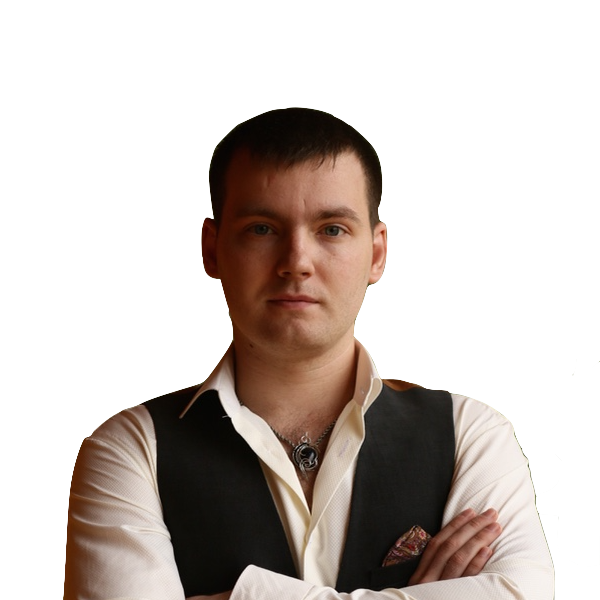
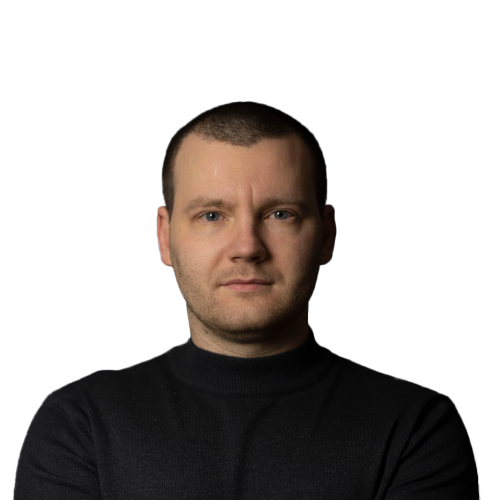
- Edited intro, skills. - Added and edited photo. - Added company links. - Fixed experience expanding button. - Added first portfolio item

diff --git a/index.html b/index.html
@@ -33,8 +33,8 @@
                         <li class="nav__item"><a href="#home" class="nav__link active">Home</a></li>
                         <li class="nav__item"><a href="#about" class="nav__link">About</a></li>
                         <li class="nav__item"><a href="#skills" class="nav__link">Skills</a></li>
-                        <li class="nav__item"><a href="#experience" class="nav__link">Work Experience</a></li>
-                        <li class="nav__item"><a href="#services" class="nav__link">Services</a></li>
+                        <li class="nav__item"><a href="#experience" class="nav__link">Experience</a></li>
+                        <!-- <li class="nav__item"><a href="#services" class="nav__link">Services</a></li> -->
                         <li class="nav__item"><a href="#works" class="nav__link">Works</a></li>
                         <li class="nav__item"><a href="#contact" class="nav__link">Contact</a></li>
                     </ul>
@@ -75,8 +75,12 @@
 
                 <div class="about__container bd-grid">
                     <div class="about__data">
-                        <p class="about__description">Highly motivated Mobile Developer with a passion to self-development and professional growth. I specialize in Native Android Development and have experience working with Java and Kotlin. Also I have a descent QA background as well as a huge oilfield domain knowledge.</p>
-                        <img src="assets/img/about.jpg" alt="" class="about__img">
+                        <p class="about__description">
+                            &emsp;I am a highly motivated Mobile Developer with a passion for self-development and professional growth. My way to software development has been pretty long and winding. I am a former Petroleum Engineer. One day I decided to change the field and pursue my childhood dream starting a career in IT. Eventually, I have reached the Developer position spending some time in QA on the way. 
+                            <br><br> &emsp;However, changing the field is never starting from scratch - so now I am a mobile developer with strong leadership and collaboration skills and an attentive attitude towards quality. 
+                            <br><br> &emsp;I specialize in Native Android Development and have experience working with Kotlin and Java.
+                        </p>
+                        <img src="assets/img/about.jpeg" alt="" class="about__img">
                     </div>
 
                     <div>
@@ -101,29 +105,29 @@
                         </div>
     
                         <div class="about__information">
-                            <h3 class="about__information-title">Experience and support</h3>
+                            <h3 class="about__information-title">Experience intro</h3>
     
                             <div class="about__information-data">
-                                <i class='bx bx-medal about__information-icon' ></i>
+                                <i class='bx bx-code-curly about__information-icon'></i>
                                 <div>
-                                    <span class="about__information-subtitle">5 Years Job</span>
+                                    <span class="about__information-subtitle">1 Year Development</span>
                                     <span class="about__information-subtitle-small">Experience</span>
                                 </div>
                             </div>
     
                             <div class="about__information-data">
-                                <i class='bx bx-briefcase about__information-icon' ></i>
+                                <i class='bx bx-bomb about__information-icon' ></i>
                                 <div>
-                                    <span class="about__information-subtitle">50+ Projects</span>
-                                    <span class="about__information-subtitle-small">Completed</span>
+                                    <span class="about__information-subtitle">2 Years QA</span>
+                                    <span class="about__information-subtitle-small">Experience</span>
                                 </div>
                             </div>
     
                             <div class="about__information-data">
-                                <i class='bx bx-support about__information-icon' ></i>
+                                <i class='bx bx-wrench about__information-icon'></i>
                                 <div>
-                                    <span class="about__information-subtitle">Support</span>
-                                    <span class="about__information-subtitle-small">Online</span>
+                                    <span class="about__information-subtitle">Engineering</span>
+                                    <span class="about__information-subtitle-small">Background</span>
                                 </div>
                             </div>
                         </div>
@@ -140,59 +144,59 @@
                 <div class="skills__container bd-grid">
 
                     <div class="skills__content">
-                        <h3 class="skills__subtitle">Frontend</h3>
+                        <h3 class="skills__subtitle">Mobile</h3>
 
                         <div class="skills__data">
-                            <span class="skills__name">HTML/css</span>
-                            <span class="skills__number">80%</span>
-                            <span class="skills__bar skills__html"></span>
-                        </div>
-
-                        <div class="skills__data">
-                            <span class="skills__name">Javascript</span>
+                            <span class="skills__name">Native Android</span>
                             <span class="skills__number">90%</span>
-                            <span class="skills__bar skills__js"></span>
+                            <span class="skills__bar skills__one"></span>
                         </div>
 
                         <div class="skills__data">
-                            <span class="skills__name">React</span>
+                            <span class="skills__name">Kotlin</span>
+                            <span class="skills__number">90%</span>
+                            <span class="skills__bar skills__two"></span>
+                        </div>
+
+                        <div class="skills__data">
+                            <span class="skills__name">Java</span>
                             <span class="skills__number">70%</span>
-                            <span class="skills__bar skills__react"></span>
+                            <span class="skills__bar skills__three"></span>
                         </div>
 
                         <div class="skills__data">
-                            <span class="skills__name">Angular</span>
-                            <span class="skills__number">60%</span>
-                            <span class="skills__bar skills__angular"></span>
+                            <span class="skills__name">Flutter</span>
+                            <span class="skills__number">50%</span>
+                            <span class="skills__bar skills__four"></span>
                         </div>
                         
                     </div>
 
                     <div class="skills__content">
-                        <h3 class="skills__subtitle">Backend</h3>
+                        <h3 class="skills__subtitle">Misc</h3>
 
                         <div class="skills__data">
-                            <span class="skills__name">Php</span>
+                            <span class="skills__name">Rest API</span>
                             <span class="skills__number">80%</span>
-                            <span class="skills__bar skills__php"></span>
+                            <span class="skills__bar skills__five"></span>
                         </div>
 
                         <div class="skills__data">
-                            <span class="skills__name">Node js</span>
-                            <span class="skills__number">90%</span>
-                            <span class="skills__bar skills__node"></span>
+                            <span class="skills__name">SQL</span>
+                            <span class="skills__number">70%</span>
+                            <span class="skills__bar skills__six"></span>
                         </div>
 
                         <div class="skills__data">
                             <span class="skills__name">Firebase</span>
-                            <span class="skills__number">70%</span>
-                            <span class="skills__bar skills__firebase"></span>
+                            <span class="skills__number">60%</span>
+                            <span class="skills__bar skills__seven"></span>
                         </div>
 
                         <div class="skills__data">
-                            <span class="skills__name">Python</span>
-                            <span class="skills__number">60%</span>
-                            <span class="skills__bar skills__python"></span>
+                            <span class="skills__name">Team work</span>
+                            <span class="skills__number">90%</span>
+                            <span class="skills__bar skills__eight"></span>
                         </div>
                         
                     </div>
@@ -203,14 +207,14 @@
 
             <!-- ===== WORK EXPERIENCE ===== -->
             <section class="experience section" id ="experience">
-                <span class="section-subtitle">Where have I worked?</span>
+                <span class="section-subtitle">Where have I worked</span>
                 <h2 class="section-title">My work experience</h2>
 
                 <div class="experience__container bd-grid">
                     <div class="experience__content">
                         <div>
                             <h3 class="experience__year">Mar 2021 - Present</h3>
-                            <span class="experience__company">Movella, Canada</span>
+                            <a href="https://www.linkedin.com/company/movellainc/" target="_blank" class="experience__company">Movella, Canada</a>
                         </div>
 
                         <div class="experience__time">
@@ -231,7 +235,7 @@
                     <div class="experience__content">
                         <div>
                             <h3 class="experience__year">Dec 2019 - Mar 2021</h3>
-                            <span class="experience__company">Kinduct, Canada</span>
+                            <a href="https://www.linkedin.com/company/kinduct-technologies-inc-/" target="_blank" class="experience__company">Kinduct, Canada</a>
                         </div>
 
                         <div class="experience__time">
@@ -254,7 +258,7 @@
                     <div class="experience__content experience__content-hidden">
                         <div>
                             <h3 class="experience__year">Mar 2019 - Oct 2019</h3>
-                            <span class="experience__company">Schlumberger, Russia</span>
+                            <a href="https://www.linkedin.com/company/schlumberger/" target="_blank" class="experience__company">Schlumberger, Russia</a>
                         </div>
 
                         <div class="experience__time">
@@ -275,7 +279,7 @@
                     <div class="experience__content experience__content-hidden">
                         <div>
                             <h3 class="experience__year">Aug 2013 - May 2019</h3>
-                            <span class="experience__company">Schlumberger, Russia</span>
+                            <a href="https://www.linkedin.com/company/schlumberger/" target="_blank" class="experience__company">Schlumberger, Russia</a>
                         </div>
 
                         <div class="experience__time">
@@ -342,7 +346,7 @@
             </section>
 
             <!--===== SERVICES =====-->
-            <section class="services section" id="services">
+            <!-- <section class="services section" id="services">
                 <span class="section-subtitle">What I Offer</span>
                 <h2 class="section-title">My Services</h2>
 
@@ -386,10 +390,10 @@
 
             
 
-            </section>
+            </section> -->
 
             <!--===== PROJECT IN MIND =====-->
-            <section class="project section">
+            <!-- <section class="project section">
                 <div class="project__container bd-grid">
                     <div class="project__data">
                         <h2 class="section-title project__title">Do you have a project in mind?</h2>
@@ -399,7 +403,7 @@
 
                     <img src="assets/img/projectmind.png" alt="" class="project__img">
                 </div>
-            </section>
+            </section> -->
 
             <!--===== WORKS =====-->
             <section class="works section" id="works">
@@ -409,11 +413,13 @@
                 <div class="works__container bd-grid">
 
                     <div class="works__img">
-                        <img src="assets/img/work1.jpg" alt="">
+                        <img src="assets/img/Sink Calculator App.png" alt="">
 
                         <div class="works__data">
-                            <a href="#" class="works__link"><i class='bx bx-link-alt' ></i></a>
-                            <span class="works__title">Work 1</span>
+                            <a href="https://play.google.com/store/apps/details?id=com.vitaz.sinkcalculator" class="works__link" target="_blank"><i class='bx bx-link-alt' ></i></a>
+                            <span class="works__title">Dofus Sink Calculator</span>
+                            <span class="works__title">Offline app - calculator for Dofus MMORPG videogame</span>
+
                         </div>
                     </div>
 

diff --git a/assets/js/main.js b/assets/js/main.js
@@ -48,10 +48,16 @@ function scrollActive() {
 const showMoreButton = document.getElementById('show-more')
 
 showMoreButton.addEventListener('click', ()=> {
-    var elements = document.getElementsByClassName('experience__content');
-
-    elements.forEach(current => {
-        current.classList.remove('experience__content-hidden');
-    })
+    removeClass('.experience__content','experience__content-hidden')
+    showMoreButton.classList.toggle('experience__content-hidden')
 })
+
+function removeClass(selector, klass) {
+    var elems = document.querySelectorAll(selector);
+
+    for (var i = elems.length; i--;) {
+        var reg = new RegExp("(?:^|\\s)"+ klass +"(?!\\S)", "gi");
+        elems[i].className = elems[i].className.replace(reg, "");
+    }
+}
  

diff --git a/assets/css/styles.css b/assets/css/styles.css
@@ -372,36 +372,36 @@ nav__toggle{
   background-color: var(--first-color);
 }
 
-.skills__html{
-  width: 80%;
-}
-
-.skills__js{
+.skills__one{
   width: 90%;
 }
 
-.skills__react{
-  width: 70%;
-}
-
-.skills__angular{
-  width: 60%;
-}
-
-.skills__php{
-  width: 80%;
-}
-
-.skills__node{
+.skills__two{
   width: 90%;
 }
 
-.skills__firebase{
+.skills__three{
   width: 70%;
 }
 
-.skills__python{
+.skills__four{
+  width: 50%;
+}
+
+.skills__five{
+  width: 80%;
+}
+
+.skills__six{
+  width: 70%;
+}
+
+.skills__seven{
   width: 60%;
+}
+
+.skills__eight{
+  width: 90%;
 }
 
 /* ===== EXPERIENCE =====*/
